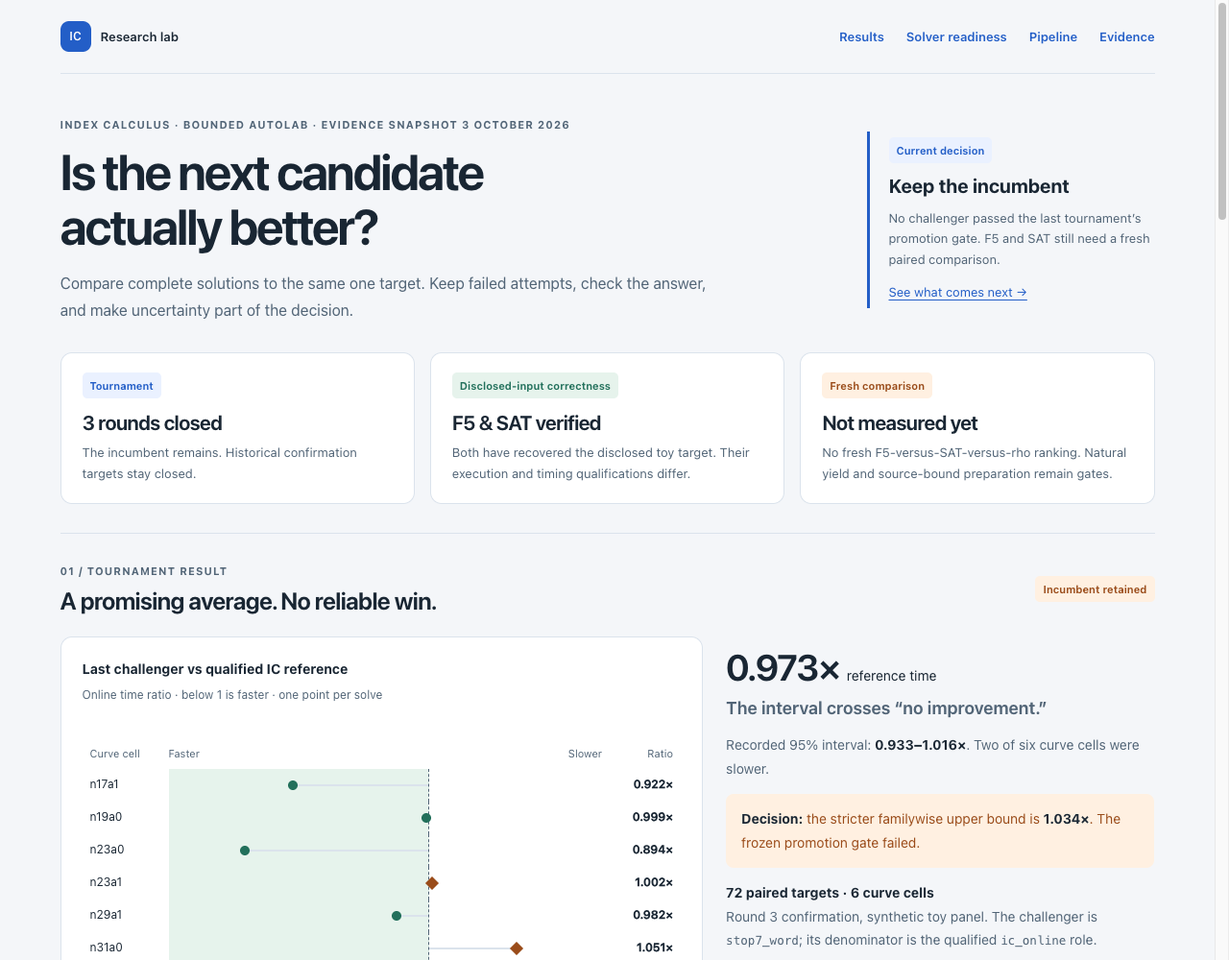
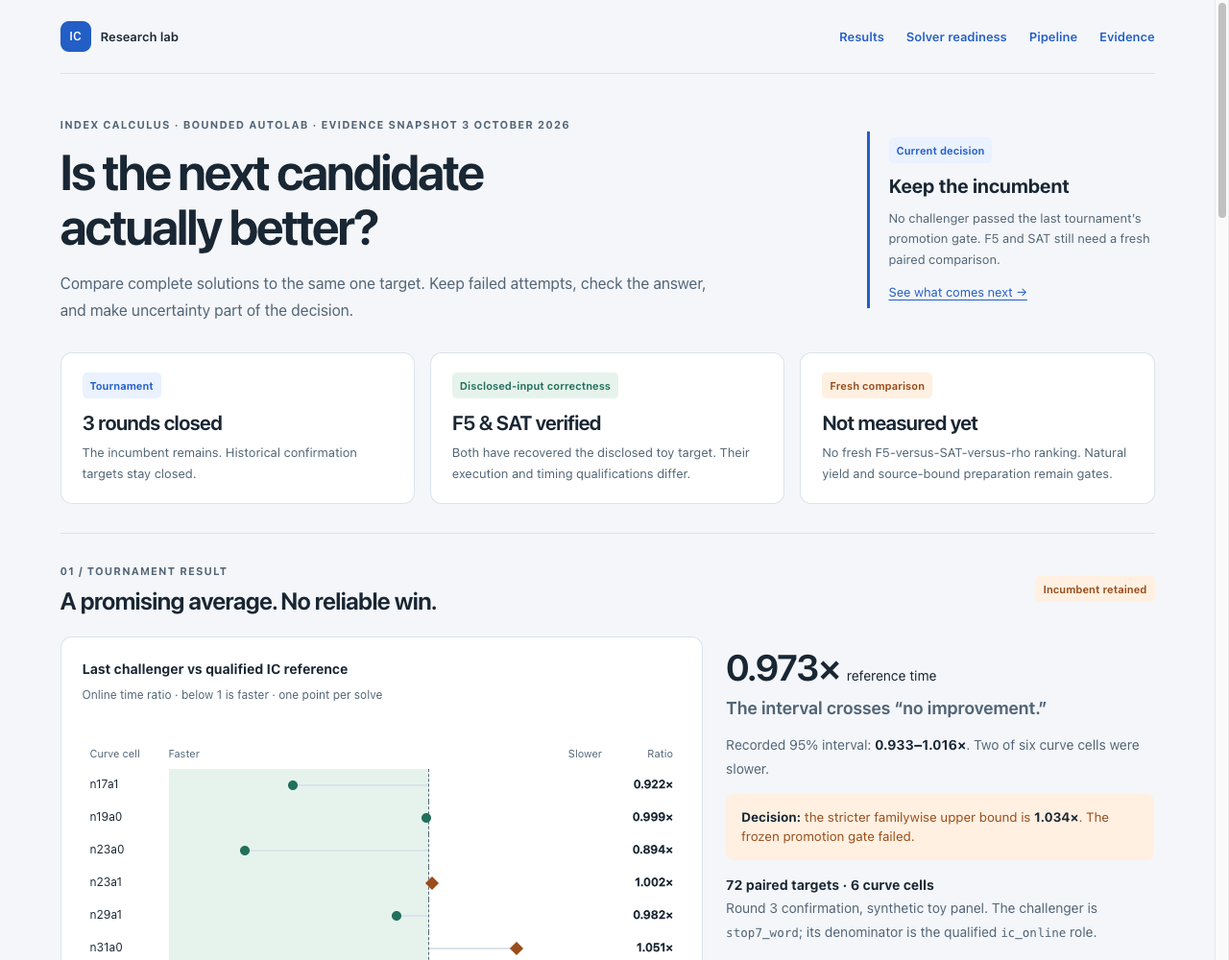
Keep site panel index and old dashboard deep links current

Changed region(s): [[0.5938, 0.837, 0.9062, 0.992]]

diff --git a/docs/index-calculus-scoreboard.html b/docs/index-calculus-scoreboard.html
@@ -499,22 +499,22 @@ body { background: var(--lab-bg); color: var(--lab-ink); padding: 0 24px 48px; }
 <div class="dash-metrics" aria-label="At a glance"><article><span class="status">Tournament</span><h2>3 rounds closed</h2><p>The incumbent remains. Historical confirmation targets stay closed.</p></article><article><span class="status good">Disclosed-input correctness</span><h2>F5 &amp; SAT verified</h2><p>Both have recovered the disclosed toy target. Their execution and timing qualifications differ.</p></article><article><span class="status pending">Fresh comparison</span><h2>Not measured yet</h2><p>No fresh F5-versus-SAT-versus-rho ranking. Natural yield and source-bound preparation remain gates.</p></article></div>
 
 <section class="dash-section" id="lab-results" aria-labelledby="results-title"><div class="dash-section-head"><div><p class="dash-kicker">01 / Tournament result</p><h2 id="results-title">A promising average. No reliable win.</h2></div><span class="status pending">Incumbent retained</span></div>
-<div class="dash-result-grid"><figure class="dash-chart"><figcaption><strong>Last challenger vs qualified IC reference</strong><span>Online time ratio · below 1 is faster · one point per solve</span></figcaption><div class="chart-scroll" tabindex="0" aria-label="Scrollable challenger comparison graph"><div class="comparison-plot" data-measurement-chart role="group" aria-label="Challenger to reference ratios; the 1.00 reference line divides faster and slower costs"><div class="plot-row plot-head"><span>Curve cell</span><span class="plot-directions"><span>Faster</span><span>Slower</span></span><span>Ratio</span></div><div class="plot-row"><span>n17a1</span><span class="plot-track"><i class="plot-link" style="left:28.650133371569897%;width:31.349866628430103%"></i><i class="plot-dot plot-faster" style="left:28.650133371569897%"></i></span><strong>0.922×</strong></div><div class="plot-row"><span>n19a0</span><span class="plot-track"><i class="plot-link" style="left:59.453147766785584%;width:0.5468522332144161%"></i><i class="plot-dot plot-faster" style="left:59.453147766785584%"></i></span><strong>0.999×</strong></div><div class="plot-row"><span>n23a0</span><span class="plot-track"><i class="plot-link" style="left:17.671515993482913%;width:42.32848400651709%"></i><i class="plot-dot plot-faster" style="left:17.671515993482913%"></i></span><strong>0.894×</strong></div><div class="plot-row"><span>n23a1</span><span class="plot-track"><i class="plot-link" style="left:60%;width:0.7157618176353182%"></i><i class="plot-dot plot-slower" style="left:60.71576181763532%"></i></span><strong>1.002×</strong></div><div class="plot-row"><span>n29a1</span><span class="plot-track"><i class="plot-link" style="left:52.68341214617522%;width:7.316587853824778%"></i><i class="plot-dot plot-faster" style="left:52.68341214617522%"></i></span><strong>0.982×</strong></div><div class="plot-row"><span>n31a0</span><span class="plot-track"><i class="plot-link" style="left:60%;width:20.232065795267403%"></i><i class="plot-dot plot-slower" style="left:80.2320657952674%"></i></span><strong>1.051×</strong></div><div class="plot-row plot-overall"><strong>Overall</strong><span class="plot-track"><i class="plot-interval" style="left:33.030729808684086%;width:33.40894126665188%"></i><i class="plot-dot" style="left:49.33381741667597%"></i></span><strong>0.973×</strong></div><div class="plot-row plot-head"><span></span><span class="plot-directions"><span>0.85×</span><span>1.10×</span></span><span></span></div><p class="plot-reference">Dashed line = 1.00× reference time</p></div></div><p class="chart-note">Circles: faster cells. Diamonds: slower cells. Only the overall mark has a descriptive 95% interval; individual dots are estimates.</p></figure><div class="dash-explanation"><span class="result-number">0.973× <span>reference time</span></span><h3>The interval crosses “no improvement.”</h3><p>Recorded 95% interval: <strong>0.933–1.016×</strong>. Two of six curve cells were slower.</p><p class="decision-note"><strong>Decision:</strong> the stricter familywise upper bound is <strong>1.034×</strong>. The frozen promotion gate failed.</p><p><strong>72 paired targets · 6 curve cells</strong><br>Round 3 confirmation, synthetic toy panel. The challenger is <code>stop7_word</code>; its denominator is the qualified <code>ic_online</code> role.</p><a href="https://github.com/aburan28/crypto/blob/main/research/ic_candidate_tournament_20260915/goal_20260924/improvement/round3/README.md">Read the decision and full table →</a></div></div>
+<div class="dash-result-grid"><figure class="dash-chart"><figcaption id="ratio-title"><strong>Last challenger vs qualified IC reference</strong><span id="ratio-desc">Online time ratio · below 1 is faster · one point per solve</span></figcaption><div class="chart-scroll" tabindex="0" aria-label="Scrollable challenger comparison graph"><div class="comparison-plot" data-measurement-chart role="group" aria-label="Challenger to reference ratios; the 1.00 reference line divides faster and slower costs"><div class="plot-row plot-head"><span>Curve cell</span><span class="plot-directions"><span>Faster</span><span>Slower</span></span><span>Ratio</span></div><div class="plot-row"><span>n17a1</span><span class="plot-track"><i class="plot-link" style="left:28.650133371569897%;width:31.349866628430103%"></i><i class="plot-dot plot-faster" style="left:28.650133371569897%"></i></span><strong>0.922×</strong></div><div class="plot-row"><span>n19a0</span><span class="plot-track"><i class="plot-link" style="left:59.453147766785584%;width:0.5468522332144161%"></i><i class="plot-dot plot-faster" style="left:59.453147766785584%"></i></span><strong>0.999×</strong></div><div class="plot-row"><span>n23a0</span><span class="plot-track"><i class="plot-link" style="left:17.671515993482913%;width:42.32848400651709%"></i><i class="plot-dot plot-faster" style="left:17.671515993482913%"></i></span><strong>0.894×</strong></div><div class="plot-row"><span>n23a1</span><span class="plot-track"><i class="plot-link" style="left:60%;width:0.7157618176353182%"></i><i class="plot-dot plot-slower" style="left:60.71576181763532%"></i></span><strong>1.002×</strong></div><div class="plot-row"><span>n29a1</span><span class="plot-track"><i class="plot-link" style="left:52.68341214617522%;width:7.316587853824778%"></i><i class="plot-dot plot-faster" style="left:52.68341214617522%"></i></span><strong>0.982×</strong></div><div class="plot-row"><span>n31a0</span><span class="plot-track"><i class="plot-link" style="left:60%;width:20.232065795267403%"></i><i class="plot-dot plot-slower" style="left:80.2320657952674%"></i></span><strong>1.051×</strong></div><div class="plot-row plot-overall"><strong>Overall</strong><span class="plot-track"><i class="plot-interval" style="left:33.030729808684086%;width:33.40894126665188%"></i><i class="plot-dot" style="left:49.33381741667597%"></i></span><strong>0.973×</strong></div><div class="plot-row plot-head"><span></span><span class="plot-directions"><span>0.85×</span><span>1.10×</span></span><span></span></div><p class="plot-reference">Dashed line = 1.00× reference time</p></div></div><p class="chart-note">Circles: faster cells. Diamonds: slower cells. Only the overall mark has a descriptive 95% interval; individual dots are estimates.</p></figure><div class="dash-explanation"><span class="result-number">0.973× <span>reference time</span></span><h3>The interval crosses “no improvement.”</h3><p>Recorded 95% interval: <strong>0.933–1.016×</strong>. Two of six curve cells were slower.</p><p class="decision-note panel-summary"><strong>Decision:</strong> the stricter familywise upper bound is <strong>1.034×</strong>. The frozen promotion gate failed.</p><p><strong>72 paired targets · 6 curve cells</strong><br>Round 3 confirmation, synthetic toy panel. The challenger is <code>stop7_word</code>; its denominator is the qualified <code>ic_online</code> role.</p><a href="https://github.com/aburan28/crypto/blob/main/research/ic_candidate_tournament_20260915/goal_20260924/improvement/round3/README.md">Read the decision and full table →</a></div></div>
 <details class="dash-details"><summary>Exact ratios, timing boundary and source evidence</summary><div class="dash-detail-body"><p>The online interval begins after reusable preparation and ends after scalar replay. Cell names indicate field degree/model, not subgroup bits. These are IC implementation comparisons, not F5/SAT trials.</p><table><caption>Frozen round 3 values; no new statistics calculated by this page</caption><thead><tr><th>Curve cell</th><th>Challenger / IC reference</th></tr></thead><tbody><tr><td>n17a1</td><td>0.921625×</td></tr><tr><td>n19a0</td><td>0.998633×</td></tr><tr><td>n23a0</td><td>0.894179×</td></tr><tr><td>n23a1</td><td>1.001789×</td></tr><tr><td>n29a1</td><td>0.981709×</td></tr><tr><td>n31a0</td><td>1.050580×</td></tr><tr><td>Overall descriptive 95% interval</td><td>0.932577–1.016099×</td></tr></tbody></table><a href="https://github.com/aburan28/crypto/blob/main/research/ic_candidate_tournament_20260915/goal_20260924/improvement/round3/RESULTS.json">Frozen result JSON</a> · <a href="https://github.com/aburan28/crypto/blob/main/docs/ic/dashboard-overview-data.json">Source hashes and overview data</a></div></details></section>
 
-<section class="dash-section" aria-labelledby="rho-results-title"><div class="dash-section-head"><div><p class="dash-kicker">02 / Reference check</p><h2 id="rho-results-title">How does that incumbent compare with rho?</h2></div><span class="status">Toy panel · online only</span></div><div class="dash-result-grid"><figure class="dash-chart"><figcaption><strong>Same targets. Same online timing boundary.</strong><span>Recorded milliseconds · zero-based linear scale · lower is better</span></figcaption><div class="chart-scroll" tabindex="0" aria-label="Scrollable rho comparison graph"><div class="rho-plot" data-measurement-chart role="group" aria-label="Recorded single-target online milliseconds, shown on a zero-based linear scale"><div class="rho-row"><div><strong>Incumbent IC</strong><span>0.033926 ms</span></div><div class="rho-track"><span style="width:13.42851869919484%;background:var(--lab-blue)"></span></div></div><div class="rho-row"><div><strong>Challenger IC</strong><span>0.033950 ms</span></div><div class="rho-track"><span style="width:13.437915678979856%;background:var(--lab-blue)"></span></div></div><div class="rho-row"><div><strong>Matched rho</strong><span>0.252643 ms</span></div><div class="rho-track"><span style="width:100%;background:var(--lab-muted)"></span></div></div><div class="rho-axis"><span>0</span><span>0.253 ms</span></div></div></div><p class="chart-note">Equal-cell geometric means of per-point three-process medians. Each arm verified 216/216 repetitions. No multi-target amortization.</p></figure><div class="dash-explanation"><span class="result-number">7.45× <span>rho / IC online time</span></span><h3>A measured lead within this workload.</h3><p>Recorded IC/rho cost ratio: <strong>0.134×</strong>; descriptive 95% interval <strong>0.125–0.144</strong>.</p><p>This is the pair-table incumbent. It does not rank F5 or SAT. Reusable preparation is excluded; cold costs and other curve sizes answer different questions.</p><a href="https://github.com/aburan28/crypto/blob/main/research/ic_candidate_tournament_20260915/goal_20260924/improvement/round3/README.md">Reference qualification and separate cold costs →</a></div></div></section>
+<section class="dash-section" aria-labelledby="rho-results-title"><div class="dash-section-head"><div><p class="dash-kicker">02 / Reference check</p><h2 id="rho-results-title">How does that incumbent compare with rho?</h2></div><span class="status">Toy panel · online only</span></div><div class="dash-result-grid"><figure class="dash-chart"><figcaption id="rho-graph-title"><strong>Same targets. Same online timing boundary.</strong><span>Recorded milliseconds · zero-based linear scale · lower is better</span></figcaption><div class="chart-scroll" tabindex="0" aria-label="Scrollable rho comparison graph"><div class="rho-plot" data-measurement-chart role="group" aria-label="Recorded single-target online milliseconds, shown on a zero-based linear scale"><div class="rho-row"><div><strong>Incumbent IC</strong><span>0.033926 ms</span></div><div class="rho-track"><span style="width:13.42851869919484%;background:var(--lab-blue)"></span></div></div><div class="rho-row"><div><strong>Challenger IC</strong><span>0.033950 ms</span></div><div class="rho-track"><span style="width:13.437915678979856%;background:var(--lab-blue)"></span></div></div><div class="rho-row"><div><strong>Matched rho</strong><span>0.252643 ms</span></div><div class="rho-track"><span style="width:100%;background:var(--lab-muted)"></span></div></div><div class="rho-axis"><span>0</span><span>0.253 ms</span></div></div></div><p class="chart-note">Equal-cell geometric means of per-point three-process medians. Each arm verified 216/216 repetitions. No multi-target amortization.</p></figure><div class="dash-explanation"><span class="result-number">7.45× <span>rho / IC online time</span></span><h3>A measured lead within this workload.</h3><p>Recorded IC/rho cost ratio: <strong>0.134×</strong>; descriptive 95% interval <strong>0.125–0.144</strong>.</p><p class="panel-summary">This is the pair-table incumbent. It does not rank F5 or SAT. Reusable preparation is excluded; cold costs and other curve sizes answer different questions.</p><a href="https://github.com/aburan28/crypto/blob/main/research/ic_candidate_tournament_20260915/goal_20260924/improvement/round3/README.md">Reference qualification and separate cold costs →</a></div></div></section>
 
-<section class="dash-section" id="lab-readiness" aria-labelledby="readiness-title"><div class="dash-section-head"><div><p class="dash-kicker">03 / Solver readiness</p><h2 id="readiness-title">Correctness comes before a speed ranking.</h2></div></div><p class="dash-section-intro">A disclosed target proves that a path can recover an answer. It does not estimate performance on an unseen target. The accepted native SAT result supersedes its earlier eight-attempt incomplete control; both records remain available.</p><div class="readiness"><table><caption>Evidence levels for this bounded autolab; “pending” never means zero cost</caption><thead><tr><th>Pipeline family</th><th>Disclosed target</th><th>Native execution evidence</th><th>New natural yield</th><th>Fresh F5/SAT comparison</th></tr></thead><tbody><tr><td><strong>Pair-table incumbent</strong><small>Registered round 3 reference</small></td><td><span class="status good">Verified panel</span></td><td><span class="status good">Accepted round</span></td><td>Different method<small>No F5/SAT yield inference</small></td><td><span class="status pending">New protocol needed</span></td></tr><tr><td><strong>Matrix F5</strong><small><a href="https://github.com/aburan28/crypto/blob/main/research/ic_candidate_tournament_20260915/goal_20260924/prepared-f5-v3-control-v1/RESULT.md">Historical control evidence</a></small></td><td><span class="status good">Scalar verified</span></td><td><span class="status pending">New native run pending</span><small>Historical Python controller provenance retained</small></td><td><span class="status pending">Pending</span></td><td><span class="status pending">Pending</span></td></tr><tr><td><strong>SAT · CryptoMiniSat</strong><small><a href="https://github.com/aburan28/crypto/blob/main/research/ic_candidate_tournament_20260915/goal_20260924/native-sat-control-registration-v1/RESULT.md">Accepted native control</a></small></td><td><span class="status good">Scalar verified</span></td><td><span class="status good">Source-bound, audited</span><small>Disclosed n17 control; consumed and closed</small></td><td><span class="status pending">Pending</span></td><td><span class="status pending">Pending</span></td></tr></tbody></table></div>
-<details class="dash-details"><summary>Control diagnostics and the earlier SAT failure</summary><div class="dash-detail-body"><p>Neither control below is a fresh performance comparison. Preparation retains historical controller provenance; new ordinary-query yield is not measured. The independent SAT audit runs outside its producer interval, so that interval cannot establish the primary independently verified online speedup.</p><table><caption>Uncalibrated disclosed-input diagnostics; do not compare these as solver rankings</caption><thead><tr><th>Control</th><th>Retained producer interval</th><th>Attempts</th><th>Scope</th></tr></thead><tbody><tr><td>Historical F5</td><td>11.955969917 s</td><td>2 negatives + 1 witness</td><td>Native target worker, historical controller; <a href="https://github.com/aburan28/crypto/blob/main/research/ic_candidate_tournament_20260915/goal_20260924/prepared-f5-v3-control-v1/RESULT.md">original record</a></td></tr><tr><td>Native SAT</td><td>56.585480167 s</td><td>2 exact negatives + 1 witness</td><td>Source-bound audited execution; <a href="https://github.com/aburan28/crypto/blob/main/research/ic_candidate_tournament_20260915/goal_20260924/native-sat-control-registration-v1/RESULT.md">timing boundary and replay</a></td></tr><tr><td>Earlier SAT control</td><td>Not a completed online solve</td><td>8 inconclusive attempts</td><td>Failure retained; <a href="https://github.com/aburan28/crypto/blob/main/research/ic_candidate_tournament_20260915/goal_20260924/prepared-one-target-controls-v1/RESULT.md">original diagnosis</a></td></tr></tbody></table><p>Both current controls use 63 geometric points, 62 usable points before orbit folding, and 29 relation columns. These counts are distinct. Matched rho speedup for both controls remains <strong>unknown</strong>.</p></div></details></section>
+<section class="dash-section" id="lab-readiness" aria-labelledby="readiness-title"><div class="dash-section-head"><div><p class="dash-kicker">03 / Solver readiness</p><h2 id="readiness-title">Correctness comes before a speed ranking.</h2></div></div><p class="dash-section-intro panel-summary">A disclosed target proves that a path can recover an answer. It does not estimate performance on an unseen target. The accepted native SAT result supersedes its earlier eight-attempt incomplete control; both records remain available.</p><div class="readiness"><table><caption>Evidence levels for this bounded autolab; “pending” never means zero cost</caption><thead><tr><th>Pipeline family</th><th>Disclosed target</th><th>Native execution evidence</th><th>New natural yield</th><th>Fresh F5/SAT comparison</th></tr></thead><tbody><tr><td><strong>Pair-table incumbent</strong><small>Registered round 3 reference</small></td><td><span class="status good">Verified panel</span></td><td><span class="status good">Accepted round</span></td><td>Different method<small>No F5/SAT yield inference</small></td><td><span class="status pending">New protocol needed</span></td></tr><tr><td><strong>Matrix F5</strong><small><a href="https://github.com/aburan28/crypto/blob/main/research/ic_candidate_tournament_20260915/goal_20260924/prepared-f5-v3-control-v1/RESULT.md">Historical control evidence</a></small></td><td><span class="status good">Scalar verified</span></td><td><span class="status pending">New native run pending</span><small>Historical Python controller provenance retained</small></td><td><span class="status pending">Pending</span></td><td><span class="status pending">Pending</span></td></tr><tr><td><strong>SAT · CryptoMiniSat</strong><small><a href="https://github.com/aburan28/crypto/blob/main/research/ic_candidate_tournament_20260915/goal_20260924/native-sat-control-registration-v1/RESULT.md">Accepted native control</a></small></td><td><span class="status good">Scalar verified</span></td><td><span class="status good">Source-bound, audited</span><small>Disclosed n17 control; consumed and closed</small></td><td><span class="status pending">Pending</span></td><td><span class="status pending">Pending</span></td></tr></tbody></table></div>
+<details class="dash-details"><summary id="control-title">Control diagnostics and the earlier SAT failure</summary><div class="dash-detail-body"><p>Neither control below is a fresh performance comparison. Preparation retains historical controller provenance; new ordinary-query yield is not measured. The independent SAT audit runs outside its producer interval, so that interval cannot establish the primary independently verified online speedup.</p><table><caption>Uncalibrated disclosed-input diagnostics; do not compare these as solver rankings</caption><thead><tr><th>Control</th><th>Retained producer interval</th><th>Attempts</th><th>Scope</th></tr></thead><tbody><tr><td>Historical F5</td><td>11.955969917 s</td><td>2 negatives + 1 witness</td><td>Native target worker, historical controller; <a href="https://github.com/aburan28/crypto/blob/main/research/ic_candidate_tournament_20260915/goal_20260924/prepared-f5-v3-control-v1/RESULT.md">original record</a></td></tr><tr><td>Native SAT</td><td>56.585480167 s</td><td>2 exact negatives + 1 witness</td><td>Source-bound audited execution; <a href="https://github.com/aburan28/crypto/blob/main/research/ic_candidate_tournament_20260915/goal_20260924/native-sat-control-registration-v1/RESULT.md">timing boundary and replay</a></td></tr><tr><td>Earlier SAT control</td><td>Not a completed online solve</td><td>8 inconclusive attempts</td><td>Failure retained; <a href="https://github.com/aburan28/crypto/blob/main/research/ic_candidate_tournament_20260915/goal_20260924/prepared-one-target-controls-v1/RESULT.md">original diagnosis</a></td></tr></tbody></table><p>Both current controls use 63 geometric points, 62 usable points before orbit folding, and 29 relation columns. These counts are distinct. Matched rho speedup for both controls remains <strong>unknown</strong>.</p></div></details></section>
 
-<section class="dash-section" id="lab-pipeline" aria-labelledby="pipeline-title"><div class="dash-section-head"><div><p class="dash-kicker">04 / Pipeline map</p><h2 id="pipeline-title">What the solver actually has to do.</h2></div></div><p class="dash-section-intro">Reusable preparation produces factor-base logs. The online solve consumes one new public point and includes every target-dependent attempt through independent scalar verification.</p>
+<section class="dash-section" id="lab-pipeline" aria-labelledby="pipeline-title"><div class="dash-section-head"><div><p class="dash-kicker">04 / Pipeline map</p><h2 id="pipeline-title">What the solver actually has to do.</h2></div></div><p class="dash-section-intro panel-summary">Reusable preparation produces factor-base logs. The online solve consumes one new public point and includes every target-dependent attempt through independent scalar verification.</p>
 <div class="pipeline-zone"><div class="pipeline-zone-label">Reusable preparation <span>Cost and memory reported separately</span></div><ol class="pipeline"><li><b>1</b><strong>Build the factor base</strong><span>Choose exact subgroup points and declare sign / Frobenius orbit folding.</span></li><li><b>2</b><strong>Find and verify relations</strong><span>Ordinary queries → point decomposition → verified, useful matrix rows.</span></li><li><b>3</b><strong>Solve the relation matrix</strong><span>Check rank and recover verified factor-base logarithms.</span></li></ol></div>
 <div class="pipeline-zone online-zone"><div class="pipeline-zone-label">One target · primary online clock <span>Start at target-dependent work → stop after independent verification</span></div><ol class="pipeline"><li><b>4</b><strong>Decompose the target</strong><span>Generate queries, encode and solve. Charge failed and timed-out attempts.</span></li><li><b>5</b><strong>Recover its logarithm</strong><span>Check the relation, perform target descent and combine the known factor logs.</span></li><li><b>6</b><strong>Verify the answer</strong><span>Independently check that the recovered scalar maps the generator to this target.</span></li></ol></div>
 <div class="stage-details"><details><summary>Factor bases &amp; Frobenius orbits</summary><p>Record the actual usable point set before folding, then folded columns and final rank separately. Different bases are different complete candidates even when their counts match.</p></details><details><summary>PDP: F4 / F5 / SAT</summary><p>PDP means point decomposition. Its internal polynomial or Macaulay matrix belongs to this stage. Solvers must return a verified point relation, not merely a satisfiable encoding. Every inconclusive attempt stays visible.</p></details><details><summary>Final linear algebra &amp; descent</summary><p>The final relation matrix is distinct from the solver’s internal matrix. Rank, modular arithmetic, recovered logs, recursive target work and the final scalar check all need evidence.</p></details></div><p class="dash-footnote">Rho must solve the same one point with the same resource limits. Fixture generation, process launch and input loading are outside both online intervals. A missing phase cost remains unknown.</p></section>
 
-<section class="dash-section" id="lab-next" aria-labelledby="next-title"><div class="dash-section-head"><div><p class="dash-kicker">05 / Tournament design</p><h2 id="next-title">A local win is a candidate, not a final answer.</h2></div></div><div class="tournament-flow" aria-label="Proposed tournament flow"><article><span class="flow-number">01 / EXPLORE</span><strong>Keep diverse candidates</strong><p>Different bases, solver families and stage combinations. Preserve alternatives with different resource tradeoffs.</p></article><article><span class="flow-number">02 / ADMIT</span><strong>Pass correctness gates</strong><p>Source identity, natural yield, failed attempts, complete costs and verified recovered answers.</p></article><article><span class="flow-number">03 / COMPARE</span><strong>Pair frozen workloads</strong><p>Same fresh point, resources and reference. Screening and untouched confirmation have separate roles.</p></article><article><span class="flow-number">04 / DECIDE</span><strong>Promote or retain</strong><p>Apply the declared uncertainty gate. Keep negative outcomes and useful alternatives for later combinations.</p></article></div><div class="next-callout"><span class="status pending">Next gate</span><div><strong>Finish the native F5 control and both natural-yield records.</strong><p>Then freeze new target exclusions, calibrated resources and strong references before a fresh paired tournament. The three historical confirmation sets remain closed.</p></div></div><p class="dash-footnote">This diagram describes the proposed process. It does not claim that a fresh F5/SAT tournament has run, or that any implementation is globally fastest.</p></section>
+<section class="dash-section" id="lab-next" aria-labelledby="next-title"><div class="dash-section-head"><div><p class="dash-kicker">05 / Tournament design</p><h2 id="next-title">A local win is a candidate, not a final answer.</h2></div></div><div class="tournament-flow" aria-label="Proposed tournament flow"><article><span class="flow-number">01 / EXPLORE</span><strong>Keep diverse candidates</strong><p>Different bases, solver families and stage combinations. Preserve alternatives with different resource tradeoffs.</p></article><article><span class="flow-number">02 / ADMIT</span><strong>Pass correctness gates</strong><p>Source identity, natural yield, failed attempts, complete costs and verified recovered answers.</p></article><article><span class="flow-number">03 / COMPARE</span><strong>Pair frozen workloads</strong><p>Same fresh point, resources and reference. Screening and untouched confirmation have separate roles.</p></article><article><span class="flow-number">04 / DECIDE</span><strong>Promote or retain</strong><p>Apply the declared uncertainty gate. Keep negative outcomes and useful alternatives for later combinations.</p></article></div><div class="next-callout"><span class="status pending">Next gate</span><div><strong>Finish the native F5 control and both natural-yield records.</strong><p>Then freeze new target exclusions, calibrated resources and strong references before a fresh paired tournament. The three historical confirmation sets remain closed.</p></div></div><p class="dash-footnote panel-summary">This diagram describes the proposed process. It does not claim that a fresh F5/SAT tournament has run, or that any implementation is globally fastest.</p></section>
 
-<section class="dash-library-intro" id="evidence-search" aria-labelledby="library-title"><p class="dash-kicker">06 / Evidence</p><h2 id="library-title">Open the detail you need.</h2><p>The historical ledger contains other curves, cost units and questions. Its reports are preserved; they are not a combined leaderboard.</p><label for="evidence-query">Search historical reports</label><input id="evidence-query" type="search" placeholder="Frobenius, F5, rho, factor base…" autocomplete="off" aria-controls="evidence-results"><p id="evidence-count" aria-live="polite"></p><ul id="evidence-results"></ul><noscript><p>Open the full ledger below and use your browser’s Find command.</p></noscript></section><details class="dash-details" id="historical-regimes"><summary>Historical best results by regime · different workloads and accounting</summary><div class="dash-detail-body"><section class="dash-section" id="lab-best" aria-labelledby="best-title" data-collapse="open"><div class="dash-section-head"><div><p class="dash-kicker">Best of all findings / Index calculus</p><h2 id="best-title">The best result in each regime, and what it earns.</h2>
+<section class="dash-library-intro" id="evidence-search" aria-labelledby="library-title"><p class="dash-kicker">06 / Evidence</p><h2 id="library-title">Open the detail you need.</h2><p class="panel-summary">The historical ledger contains other curves, cost units and questions. Its reports are preserved; they are not a combined leaderboard.</p><label for="evidence-query">Search historical reports</label><input id="evidence-query" type="search" placeholder="Frobenius, F5, rho, factor base…" autocomplete="off" aria-controls="evidence-results"><p id="evidence-count" aria-live="polite"></p><ul id="evidence-results"></ul><noscript><p>Open the full ledger below and use your browser’s Find command.</p></noscript></section><details class="dash-details" id="historical-regimes"><summary>Historical best results by regime · different workloads and accounting</summary><div class="dash-detail-body"><section class="dash-section" id="lab-best" aria-labelledby="best-title" data-collapse="open"><div class="dash-section-head"><div><p class="dash-kicker">Best of all findings / Index calculus</p><h2 id="best-title">The best result in each regime, and what it earns.</h2>
 <p class="panel-summary">Ranks the best verified figure in each regime by how much of the attack it prices, finding no elliptic-curve whole-method row below matched rho and the only below-rho result hyperelliptic.</p></div><span class="status neutral">Ranked · every phase counted</span></div>
 <p class="dash-section-intro">One row per kind of measurement, each the best figure this repository has verified in that regime, with the class the repository&rsquo;s own rule assigns it. The page&rsquo;s standard for &ldquo;faster than rho&rdquo; is the first row: a whole cold method, one unseen target, against a matched rho, below one at growing size. Nothing on an elliptic curve has met it. The rows below it are what has been achieved short of that, each with the boundary it did not cross.</p>
 <div class="dash-detail-body" style="padding:0"><table>

diff --git a/docs/ic-current-state.html b/docs/ic-current-state.html
@@ -186,18 +186,18 @@ td.inst { white-space: nowrap; }
   <details>
     <summary>Show all 249 panels, one line each</summary>
     <ol class="index">
-      <li><a href="./#lab-results">Did the last challenger win?</a><br>Shows round 3&#x27;s stop7_word challenger at 0.973x the qualified online reference with an interval crossing one, so the incumbent is retained and nothing is promoted.</li>
+      <li><a href="./#lab-results">A promising average. No reliable win.</a><br>Decision: the stricter familywise upper bound is 1.034×. The frozen promotion gate failed.</li>
+      <li><a href="./#rho-results-title">How does that incumbent compare with rho?</a><br>This is the pair-table incumbent. It does not rank F5 or SAT. Reusable preparation is excluded; cold costs and other curve sizes answer different questions.</li>
+      <li><a href="./#lab-readiness">Correctness comes before a speed ranking.</a><br>A disclosed target proves that a path can recover an answer. It does not estimate performance on an unseen target. The accepted native SAT result supersedes its earlier eight-attempt incomplete control; both records remain available.</li>
+      <li><a href="./#lab-pipeline">What the solver actually has to do.</a><br>Reusable preparation produces factor-base logs. The online solve consumes one new public point and includes every target-dependent attempt through independent scalar verification.</li>
+      <li><a href="./#lab-next">A local win is a candidate, not a final answer.</a><br>This diagram describes the proposed process. It does not claim that a fresh F5/SAT tournament has run, or that any implementation is globally fastest.</li>
+      <li><a href="./#evidence-search">Open the detail you need.</a><br>The historical ledger contains other curves, cost units and questions. Its reports are preserved; they are not a combined leaderboard.</li>
+      <li><a href="./#lab-best">The best result in each regime, and what it earns.</a><br>Ranks the best verified figure in each regime by how much of the attack it prices, finding no elliptic-curve whole-method row below matched rho and the only below-rho result hyperelliptic.</li>
       <li><a href="./#cold-compact-orbit-20261003">The n37 folded table recovers targets, but misses full rank.</a><br>Finds the eager 42-orbit table pins each of eight public targets at rank 19 to 38 of 43 unknowns, so the preregistered full-rank IC/rho verdict is withheld, classed accounting.</li>
       <li><a href="./#full-rank-compact-orbit-20261003">n37 rank reaches 43/43; this cold eager table remains costly.</a><br>Reaches rank 43/43 on eight new public targets with every scalar verified, but the cold charged IC lower bound sits 22.600x the same-Q strong rho, a bounded accounting result.</li>
-      <li><a href="./#rho-results-title">Does the incumbent beat rho here?</a><br>Shows the pair-table incumbent&#x27;s online phase at 0.134x matched rho on the round 3 toy workload, reusable preparation excluded, establishing no cold result or size claim.</li>
-      <li><a href="./#lab-best">The best result in each regime, and what it earns.</a><br>Ranks the best verified figure in each regime by how much of the attack it prices, finding no elliptic-curve whole-method row below matched rho and the only below-rho result hyperelliptic.</li>
       <li><a href="./#lab-ecbench-all">Every ECDLP method this repository has, measured cold in one unit on the same targets.</a><br>Records a cold one-unit baseline of every rho, BSGS, kangaroo and index-calculus arm on eight curves, with no index-calculus arm below its matched rho and the gap widening with subgroup size.</li>
       <li><a href="./#lab-progress">Where index calculus stands against rho, by the day each result landed.</a><br>Plots the best verified IC over rho ratio in each regime by the day it landed, with early below-one points hollow because their rho later proved unmatched, citing frozen timeline data.</li>
       <li><a href="./#lab-currency">Every result lands here in the pull request that produces it.</a><br>States the rule since 3 October 2026: a pull request landing a measurement, reclassification, corrected reference or withdrawn claim updates every panel citing that kind of result before it merges.</li>
-      <li><a href="./#lab-pipeline">A complete pipeline, not a fast fragment.</a><br>Describes the six-stage one-target pipeline, reusable preparation reported separately and the online clock running from target query through independent scalar replay, as the tournament&#x27;s accounting rule.</li>
-      <li><a href="./#control-title">F5 runs end to end. Its cost is in PDP.</a><br>Records an uncalibrated macOS correctness control where F5 completes one disclosed n17 target in 11.956 seconds with virtually all of it in PDP and no matched rho arm.</li>
-      <li><a href="./#lab-next">Earn a comparison before declaring a winner.</a><br>Lists the gates ahead: the F5 source gate and native prepared SAT control are closed, native F5 natural yield is next, and a fair new tournament and fresh paired comparison are pending.</li>
-      <li><a href="./#evidence-search">Details when you need them.</a><br>Opens the historical ledger, where each panel keeps its original workload, unit and evidence level and no combined ranking is implied, to be searched with the browser&#x27;s Find command.</li>
       <li><a href="./#ic-f5-v1-schema-failure-20260930">Source-bound F5 v1 stops before IC at the native input interface</a> <span class="chip">accounting</span><br>Records a closed failed registration where a null target_seeds entry was rejected by the native parser before any IC query ran, an adapter failure leaving costs and boundaries unknown.</li>
       <li><a href="./#ic-f5-v2-full-development-20260930">Source-bound F5 IC completes one n17 development target</a> <span class="chip">accounting</span><br>Records one verified development target solved by bounded Macaulay elimination with all 61 feasible queries witnessed, an uncalibrated macOS development result establishing no speedup or rho comparison.</li>
       <li><a href="./#ic-sat-v3-full-development-20260930">Source-bound SAT IC completes one n17 development target</a> <span class="chip">accounting</span><br>Records the SAT v3 control solving its target on the first attempt with all 37 feasible inputs witnessed, uncalibrated macOS observations with speedup and promotion unestablished.</li>

diff --git a/docs/ic/DASHBOARD.md b/docs/ic/DASHBOARD.md
@@ -27,9 +27,21 @@ Use Node.js 22 or later; no dependencies are required:
 
 ```sh
 node tools/render_ic_dashboard.mjs
+python3 scripts/site/panel_index.py
 node tools/render_ic_dashboard.mjs --check
+python3 scripts/site/panel_index.py --check
 node tools/check_ic_dashboard_browser.mjs
 ```
+
+The existing site navigation index also needs regeneration when panel titles,
+summaries or layout change. Its Python HTML parser lists links on
+`docs/ic-current-state.html`; it performs no research or result calculation.
+Every overview section supplies a summary, and the site's existing 45 tests
+check the complete generated index and page structure. The first stale-index
+CI failure is retained in `dashboard-panel-index-ci-failure-20261003.txt`.
+One local sandboxed Chrome launch also exceeded its 20-second deadline before
+connecting to DevTools. The isolated-profile check subsequently passed with
+the sandbox restriction lifted; no timeout or assertion was relaxed.
 
 The browser check uses an installed Chrome or Chromium with a fresh temporary
 profile. It checks chart visibility, the admitted SAT status, quiet evidence
